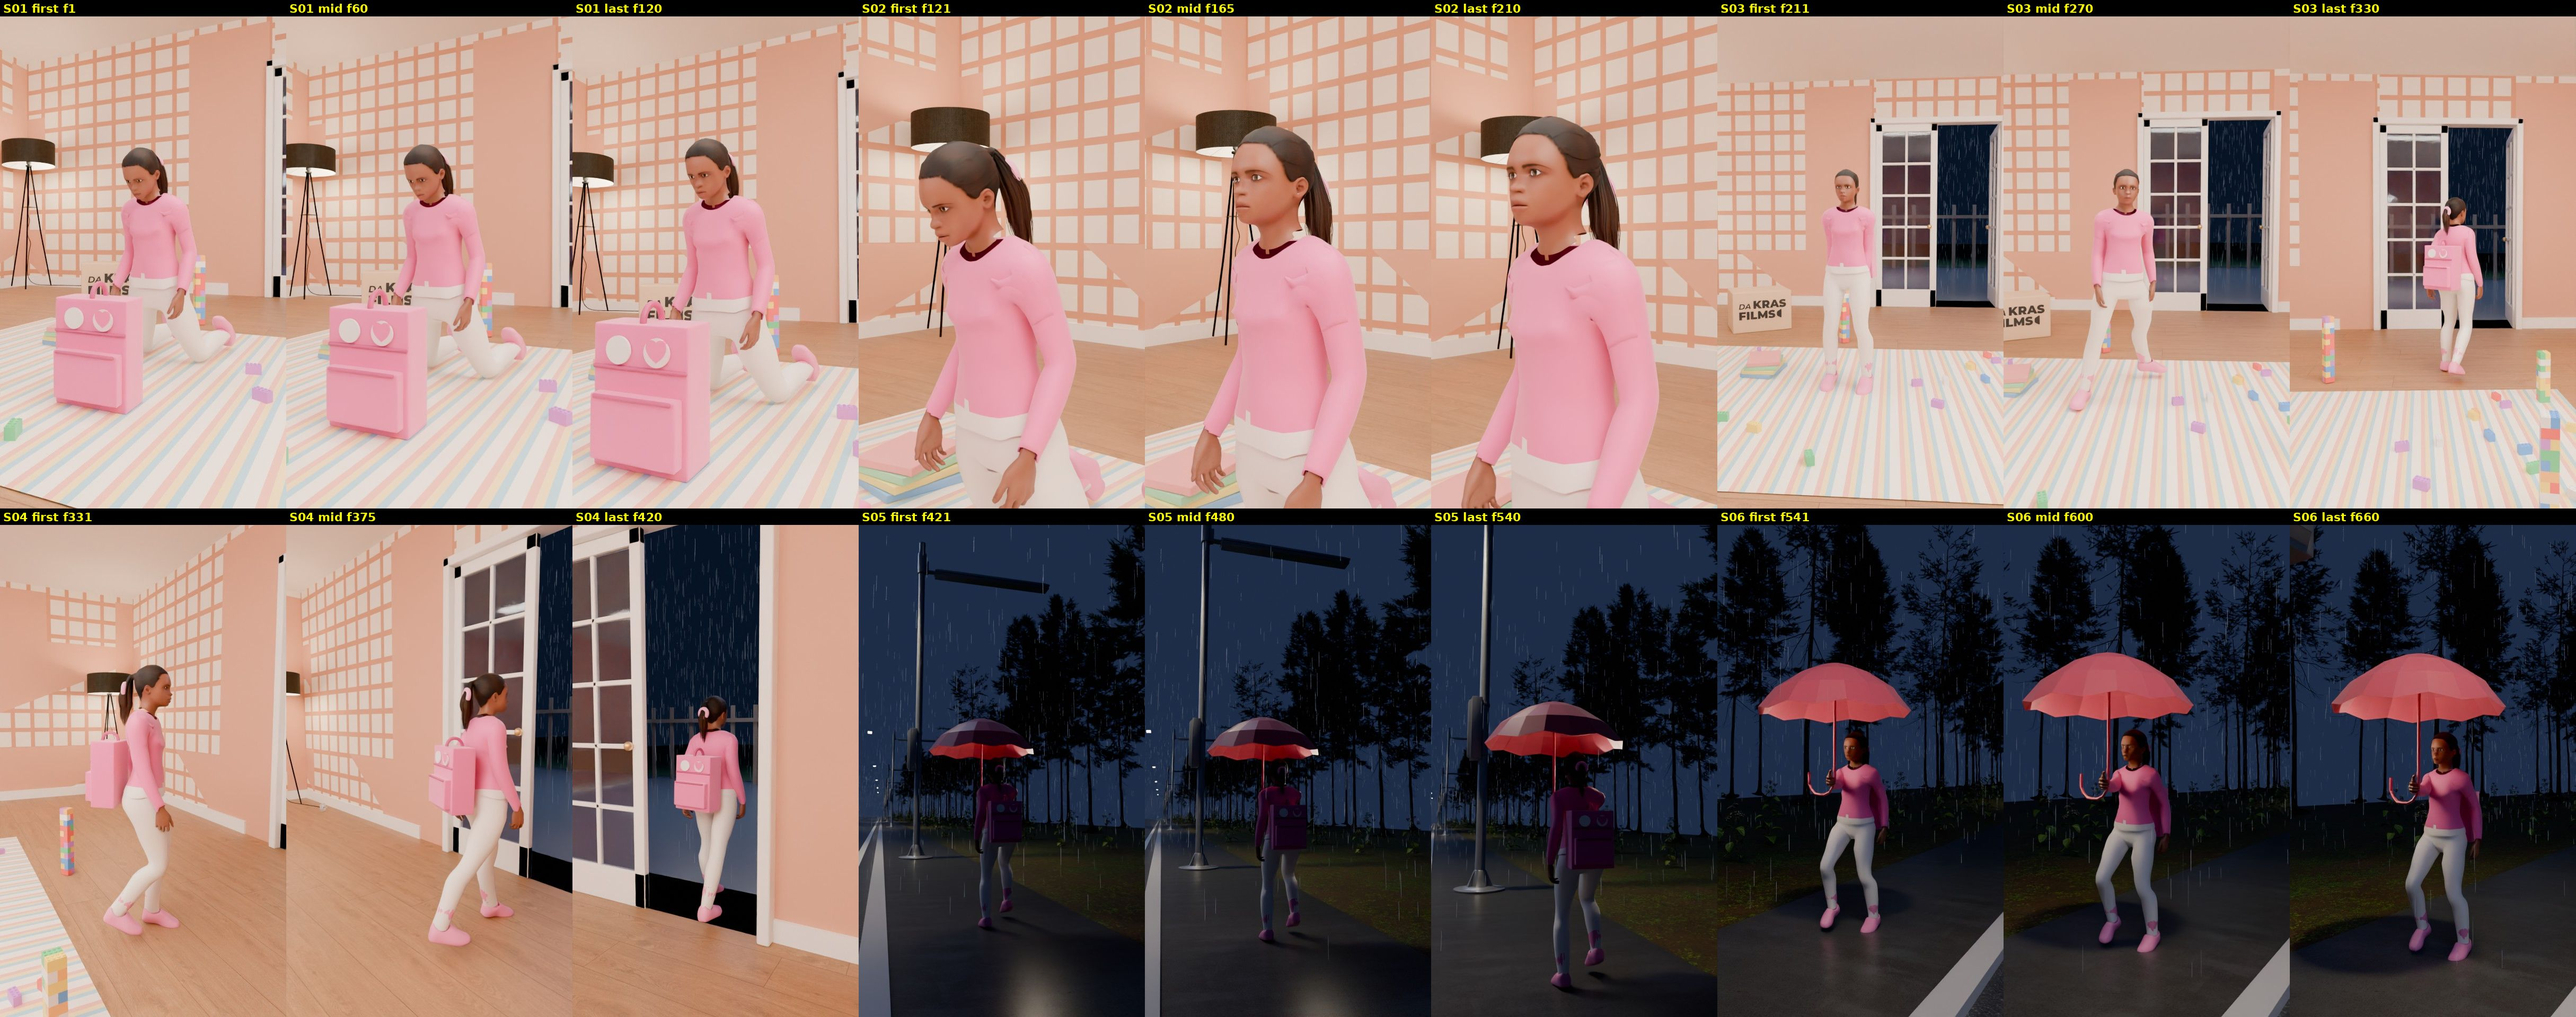
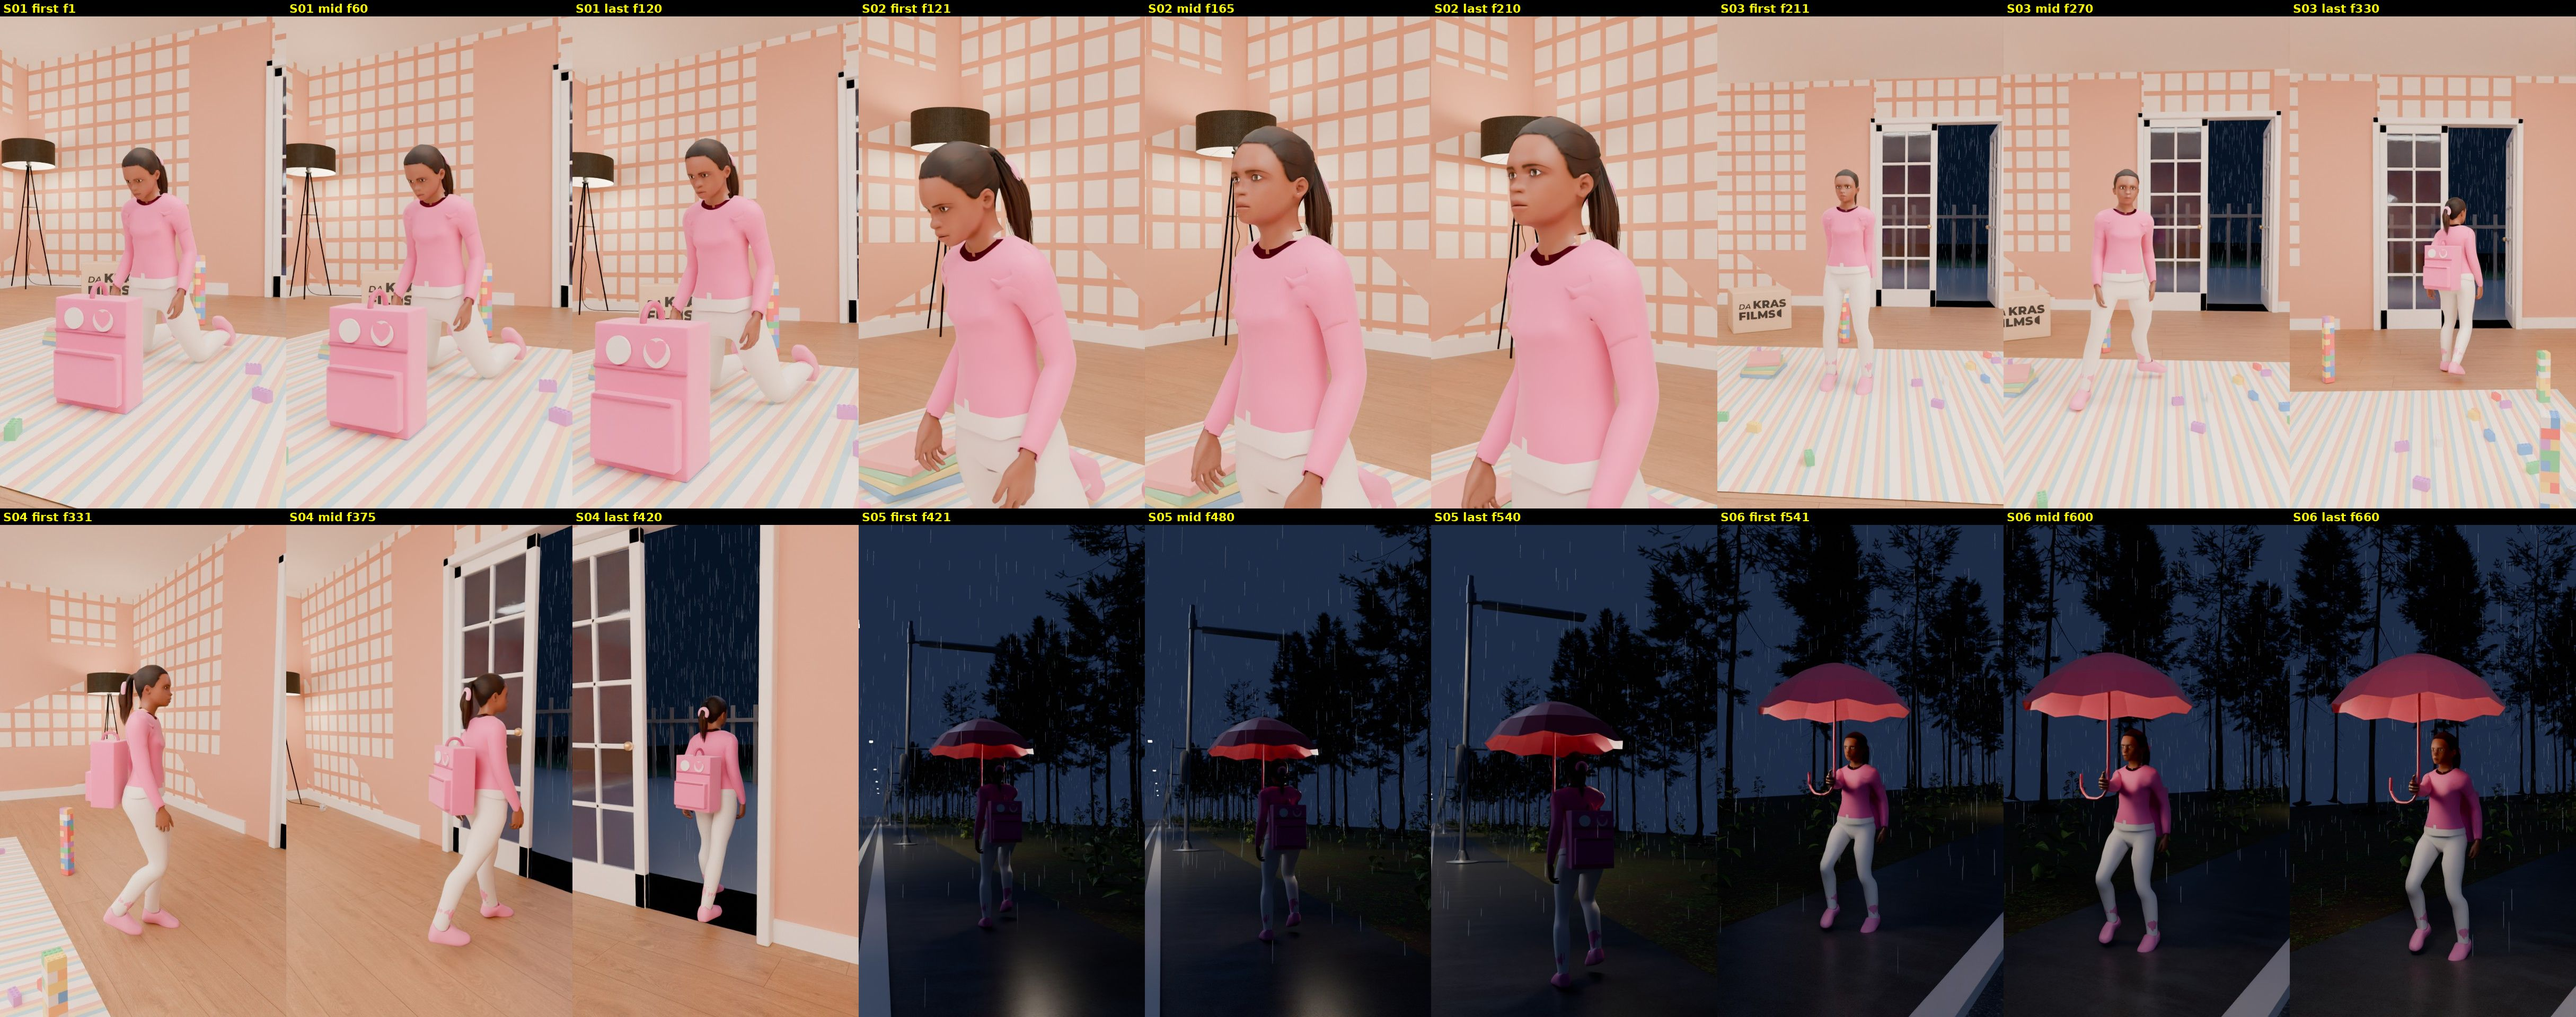
B06: S07 fixed (road-side camera, walk starts 4 m earlier so the lamp pole stays ahead of her), car plate blank, refreshed 540 sheets + S07/S15/S16 fix sheet
Claude-Session: https://claude.ai/code/session_01XfwPSnHdTC45yYGcWm4G1t

Changed region(s): [[0.3107, 0.5, 1.0, 1.0]]

diff --git a/blender/AshaDegree_v001/scripts/04_shots.py b/blender/AshaDegree_v001/scripts/04_shots.py
@@ -419,7 +419,7 @@ cam_shot("S04", [(331, (2.45, 0.6, 1.05)), (440, (2.25, 1.15, 1.1))], lens=28,
 G = girls["road"]; H = HS["road"]; XR = 100.0
 SX = XR + 5.0                      # sidewalk line
 v = 1.0 / 60.0                      # m per frame
-def road_y(f): return -30.0 + max(0, min(f, 905) - 400) * v + (max(0, f - 905) * v * 0.15 if f < 925 else 20 * v * 0.15)
+def road_y(f): return -34.0 + max(0, min(f, 905) - 400) * v + (max(0, f - 905) * v * 0.15 if f < 925 else 20 * v * 0.15)
 road_path = lambda f: W2A(G, (SX, road_y(f), 0))
 walk_with_arms(H, road_path, lambda f: 180.0, 400, 905, stride=1.0 / G.scale.x)
 # umbrella in the right hand: forearm up, fist in front of the shoulder
@@ -495,8 +495,8 @@ cam_shot("S05", [(421, (SX - 0.9, road_y(421) - 3.4, 0.85)), (560, (SX - 0.8, ro
          target_keys=[(421, (SX, road_y(421), 1.25)), (560, (SX, road_y(560), 1.25))])
 cam_shot("S06", [(541, (SX - 1.6, road_y(541) + 3.0, 1.0)), (680, (SX - 1.5, road_y(680) + 2.4, 1.0))], lens=35,
          target_keys=[(541, (SX, road_y(541), 1.1)), (680, (SX, road_y(680), 1.12))])
-cam_shot("S07", [(661, (XR + 3.9, road_y(661) - 5.5, 1.15)), (730, (XR + 3.9, road_y(730) - 5.2, 1.15)), (800, (XR + 3.9, road_y(800) - 5.0, 1.15))], lens=30,
-         target_keys=[(661, (SX - 0.9, road_y(661) + 1.0, 1.0)), (730, (SX - 0.9, road_y(730) + 1.0, 1.0)), (800, (SX - 0.9, road_y(800) + 1.0, 1.0))])
+cam_shot("S07", [(661, (XR - 0.4, road_y(661) - 3.2, 1.25)), (730, (XR - 0.4, road_y(730) - 3.1, 1.25)), (800, (XR - 0.4, road_y(800) - 3.0, 1.25))], lens=30,
+         target_keys=[(661, (SX - 0.2, road_y(661) + 0.6, 0.95)), (730, (SX - 0.2, road_y(730) + 0.6, 0.95)), (800, (SX - 0.2, road_y(800) + 0.6, 0.95))])
 cam_shot("S08", [(781, (XR - 4.0, road_y(781) - 12.0, 4.2)), (890, (XR - 3.6, road_y(890) - 10.5, 4.0))], lens=26,
          target_keys=[(781, (XR + 3.5, road_y(781) + 5.0, 0.6)), (890, (XR + 3.5, road_y(890) + 5.0, 0.6))])
 cam_shot("S09", [(871, (SX + 0.6, road_y(871) - 2.6, 0.95)), (980, (SX + 0.9, road_y(925) - 2.1, 0.95))], lens=30,

diff --git a/blender/AshaDegree_v001/scripts/03_sets.py b/blender/AshaDegree_v001/scripts/03_sets.py
@@ -362,8 +362,9 @@ car = import_glb("Car", "car.glb", C, size=None, keep=lambda o: _cx(o) < 200)
 _d = car.dimensions; _ax = 0 if _d.x > _d.y else 1
 _s = 4.7 / max(_d.x, _d.y); car.data.transform(Matrix.Scale(_s, 4))
 if _ax == 0: car.data.transform(Matrix.Rotation(R_(90), 4, 'Z'))   # length along y, nose to -y checked in 04
-recolor(car, {"number_plate": mat("PlateBlank", (0.85, 0.85, 0.82), 0.5), "main_body": mat("CarBlue", (0.12, 0.2, 0.45), 0.25, metal=0.4)})
+recolor(car, {"plate": mat("PlateBlank", (0.85, 0.85, 0.82), 0.5), "main_body": mat("CarBlue", (0.12, 0.2, 0.45), 0.25, metal=0.4)})
 car.location = (X + 1.8, 60, 0)
+print("CAR mats", [m.name for m in car.data.materials if m])
 # =================================================================== WOODS (night run / torch search)
 C = coll("SET_Woods"); X = 200.0
 ground = tex_mat("ForestFloor", "forest_leaves_02", rough=0.5, tint=(0.5, 0.56, 0.55), bump=0.25)   # wet, night
